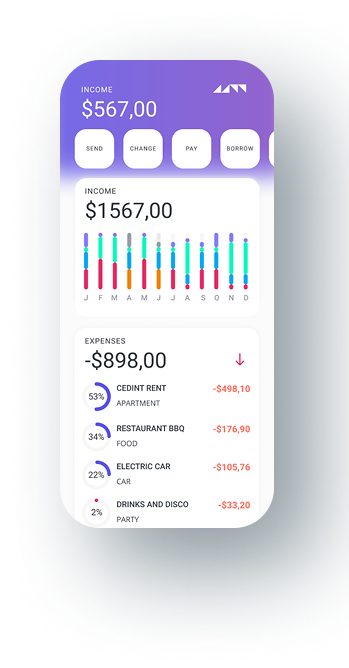
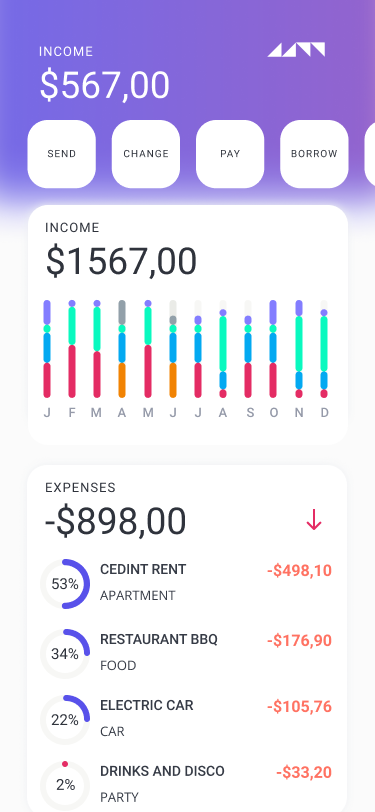
feat(app-features):add format and style to app features section

diff --git a/index.html b/index.html
@@ -60,7 +60,7 @@
         </section>
         <section class="app-features">
             <h5>APP FEATURES</h5>
-            <p>Lorem ipsum dolor sit amet, consectetur adipiscing elit. Viverra nunc ante velit vitae.</p>
+            <p>Lorem ipsum dolor sit amet, consectetur adipiscing elit.</p>
             <div>
                 <img src="assets/comment.png" alt="message icon">
                 <h6>FULL FREE CHAT</h6>
@@ -70,29 +70,29 @@
             <div>
                 <img src="assets/browser.png" alt="browser icon">
                 <h6>UNLIMITER FEATURES</h6>
-                <p>Lorem ipsum dolor sit amet, consectetur adipiscing elit. Viverra nunc ante velit vitae.</p>
+            <p>Lorem ipsum dolor sit amet, consectetur adipiscing elit.</p>
             </div>
 
             <div>
                 <img src="assets/pen.png" alt="pen icon">
                 <h6>AWESOME UI DESIGN</h6>
-                <p>Lorem ipsum dolor sit amet, consectetur adipiscing elit. Viverra nunc ante velit vitae.</p>
+            <p>Lorem ipsum dolor sit amet, consectetur adipiscing elit.</p>
             </div>
-            <img src="assets/app-mockup-income.png" alt="app mockup">
+            <img class="mockup" src="assets/app-mockup-income.png" alt="app mockup">
             <div>
                 <img src="assets/cell-phone.png" alt="cell-phone icon">
                 <h6>ISO AND ANDROID VERSION</h6>
-                <p>Lorem ipsum dolor sit amet, consectetur adipiscing elit. Viverra nunc ante velit vitae.</p>
+            <p>Lorem ipsum dolor sit amet, consectetur adipiscing elit.</p>
             </div>
             <div>
                 <img src="assets/eye-scanner 1.png" alt="eye scanner icon">
                 <h6>RETINA READY GRAPHICS</h6>
-                <p>Lorem ipsum dolor sit amet, consectetur adipiscing elit. Viverra nunc ante velit vitae.</p>
+            <p>Lorem ipsum dolor sit amet, consectetur adipiscing elit.</p>
             </div>
             <div>
                 <img src="assets/male-telemarketer.png" alt="male telemarketer icon">
                 <h6>24/7 SUPPORT BY REAL PEOPLE</h6>
-                <p>Lorem ipsum dolor sit amet, consectetur adipiscing elit. Viverra nunc ante velit vitae.</p>
+            <p>Lorem ipsum dolor sit amet, consectetur adipiscing elit.</p>
             </div>
         </section>
         <section class="our-team"></section>

diff --git a/style.css b/style.css
@@ -132,7 +132,6 @@ main{
     display: flex;
     justify-self: center;
 }
-
 .about-app .card{
     display: grid;
     grid-template-columns: 40px 1fr;
@@ -142,6 +141,28 @@ main{
     padding: 1rem;
     
 }
+.app-features *{
+ color: white;
+ text-align: center;
+ margin: 1rem 0rem;
+}
+.mockup{
+    border-radius: 40px;
+    width: 214px;
+}
+.app-features{
+    margin: 4rem;
+    justify-content: center;
+}
+.app-features div{
+    margin: 5rem 1rem;
+}
+.app-features img{
+    display: flex;
+    justify-self: center;
+    margin: 2rem 0rem;
+}
+
 
 .our-team{
     background-color: white;
